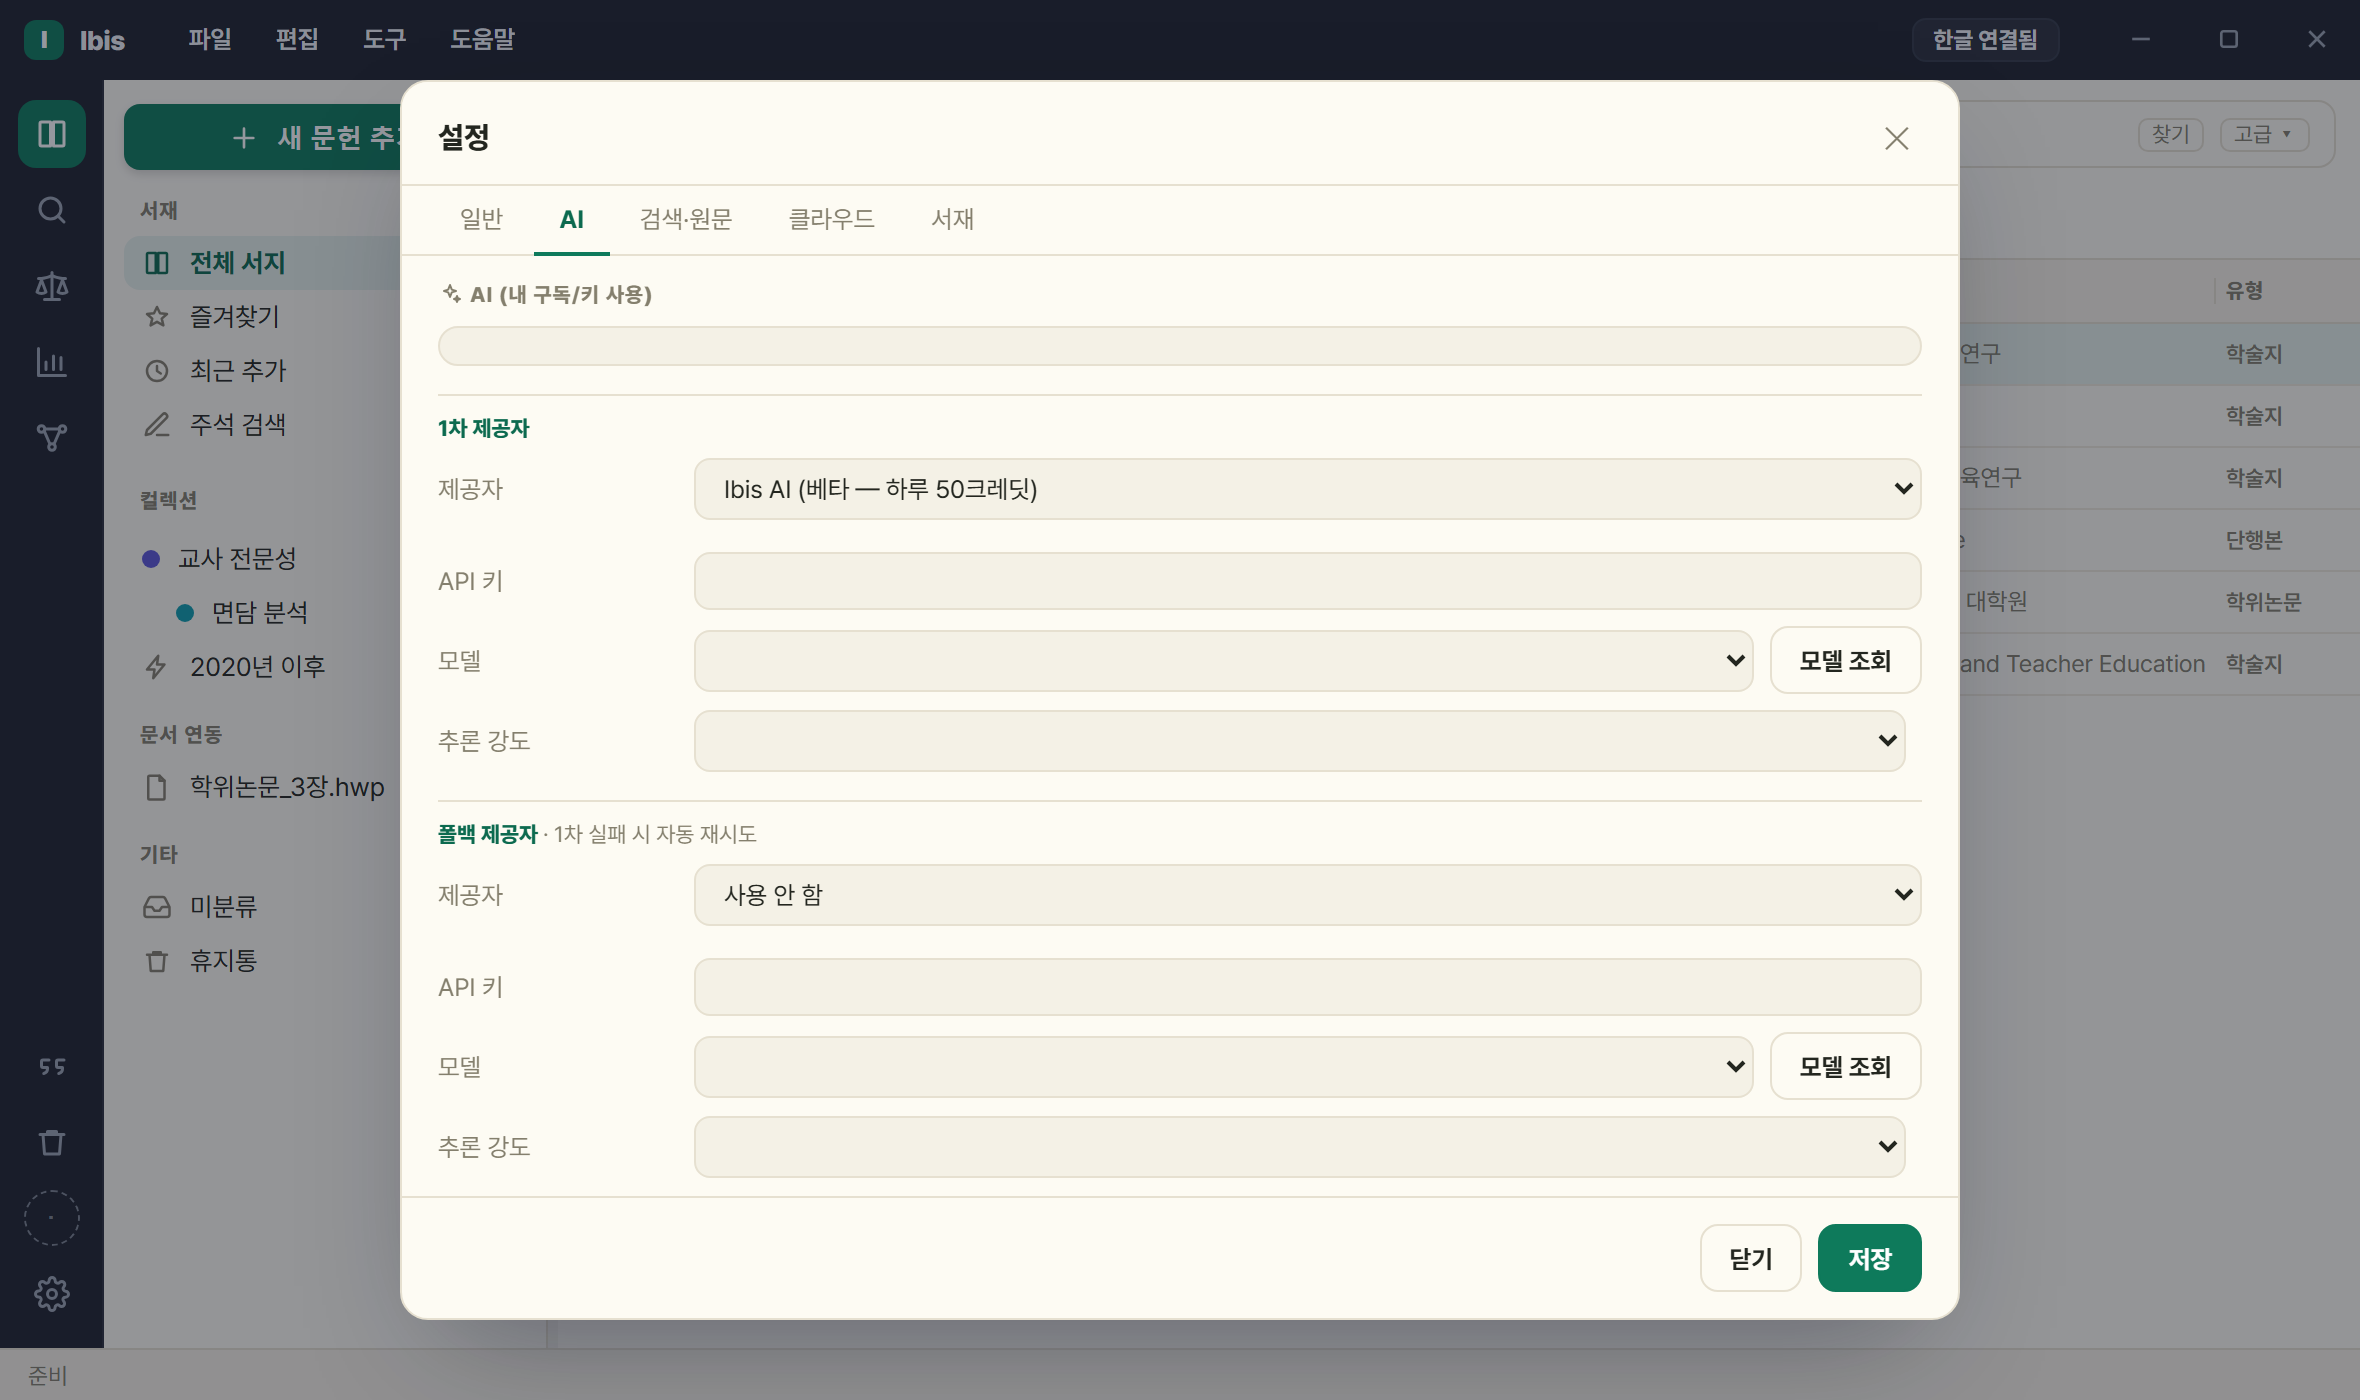
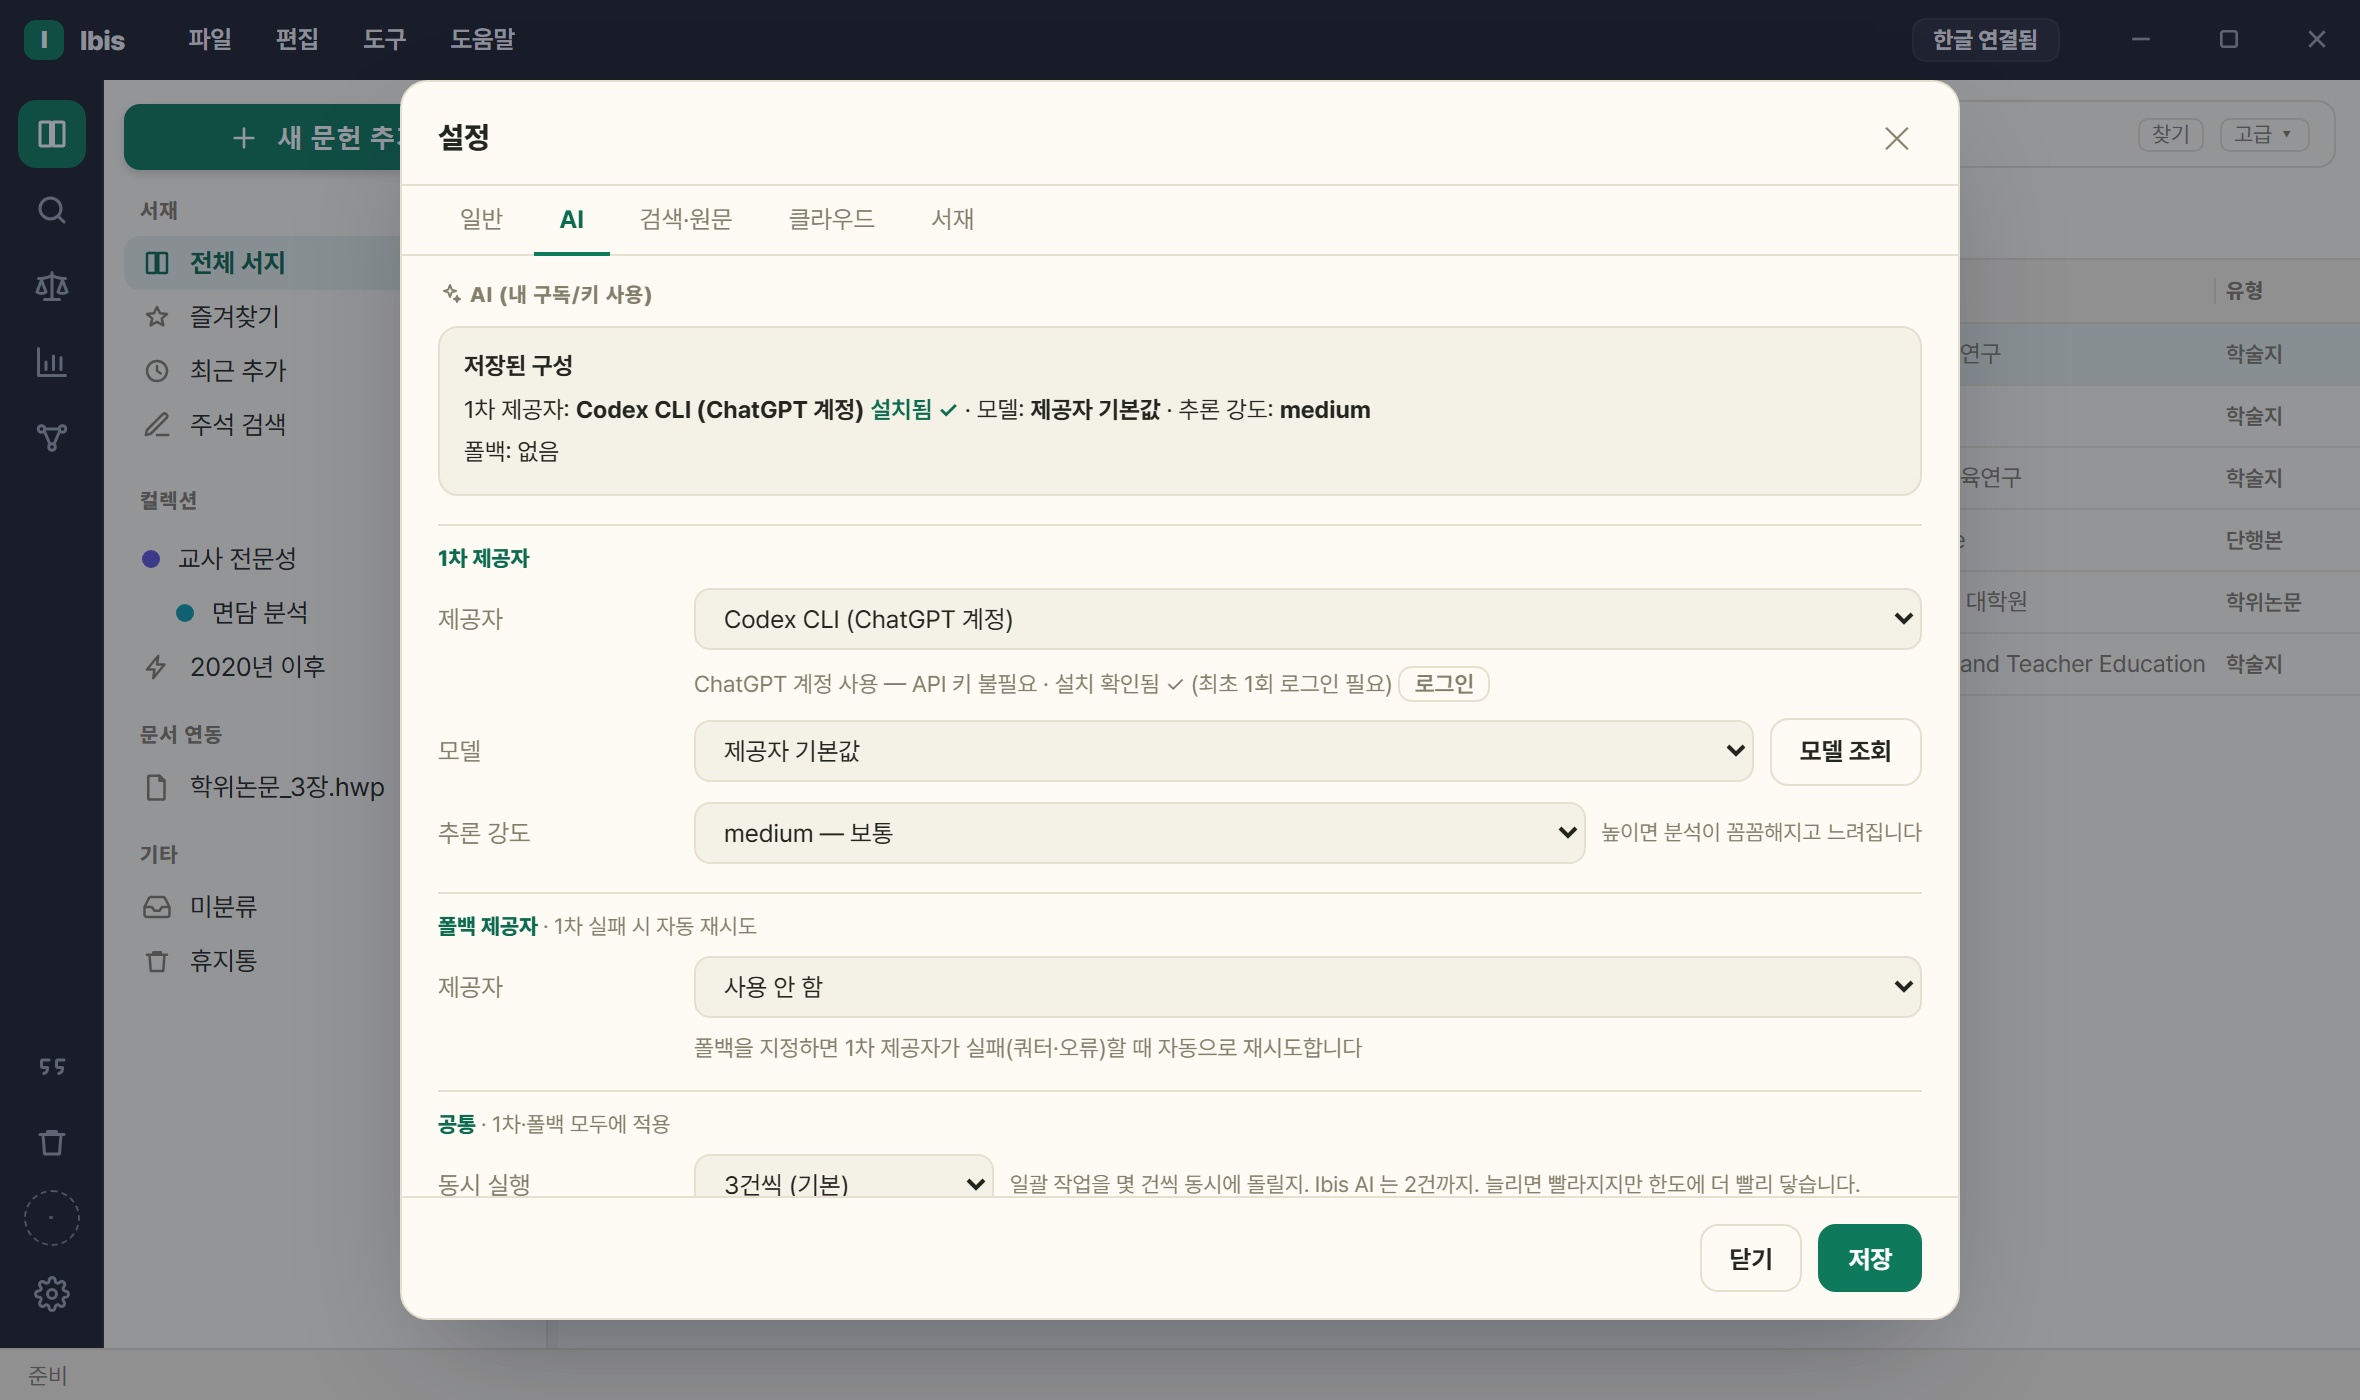
2026.9.20.0 Codex·로컬 AI와 업데이트 안내 반영

diff --git a/docs/FAQ.md b/docs/FAQ.md
@@ -1,6 +1,6 @@
 # Ibis FAQ
 
-한국 연구자를 위한 서지·인용 관리 앱 **Ibis** 자주 묻는 질문. 기준 버전 **2026.9.19**.
+한국 연구자를 위한 서지·인용 관리 앱 **Ibis** 자주 묻는 질문. 기준 버전 **2026.9.20.0** (2026-09-23).
 
 - **국내 학술 검색 → 원문 확보 → AI 분석 → 태그 그래프**까지 한 프로그램에서 합니다.
 - 한글(HWP)·Word 본문 인용 삽입(CWYW)도 그중 한 기능입니다.
@@ -33,7 +33,7 @@
 
 - **setup.exe** (권장) — 관리자 권한 불필요, 시작 메뉴·바탕화면 아이콘, 제어판에서 제거.
 - `win64.zip` 은 앱이 업데이트할 때 내려받는 파일입니다. 직접 받아 풀면 자동 업데이트·바로가기·제거가 되지 않습니다.
-- 이미 쓰고 있으면 **앱 안에서 자동 업데이트**되므로 따로 받지 않아도 됩니다.
+- 이미 쓰고 있으면 앱 안에서 업데이트할 수 있습니다. 단 **2026.9.18 또는 2026.9.19는 `파일 › 종료`로 앱을 완전히 끝낸 뒤 새 `setup.exe`를 실행하세요.** 창의 **×는 최소화이므로 종료가 아닙니다.**
 
 **Q. 지난 버전을 받고 싶은데 릴리스에 최신 하나만 보여요. (2026-09-15)**
 
@@ -68,10 +68,10 @@
 - 켜면(기본 꺼짐) 설치 후 첫 실행에서 AI 설정 화면이 먼저 열립니다. 켜지 않아도 나중에 ⚙설정에서 할 수 있습니다.
 - 인스톨러가 **AI CLI 를 대신 깔지는 않습니다** — 로그인이 브라우저 인증이라 무인 설치로 끝나지 않기 때문입니다.
 
-**Q. 버전이 `0.7.2` 다음에 `2026.7.1` 이던데 맞나요?**
+**Q. 버전 번호가 네 자리가 된 이유는 무엇인가요?**
 
-- 맞습니다. 2026-07 부터 **날짜 기반(CalVer `연.월.패치`)** 으로 바꿨습니다.
-- 버전에서 빌드 시점을 바로 알 수 있습니다. 인앱 업데이트는 그대로 동작합니다.
+- `2026.9.20.0`(2026-09-23)부터 **연.월.큰 변경.작은 수정**으로 구분합니다. 작은 수정은 `2026.9.20.1`, 다음 큰 변경은 `2026.9.21.0`처럼 올립니다.
+- 예전 세 자리 버전도 그대로 인식하므로 사용자가 번호를 바꿀 필요는 없습니다.
 
 **Q. Mac·리눅스에서도 되나요?**
 
@@ -484,6 +484,7 @@
 **Q. 내 서재 전체를 여러 PC 에서 맞출 수 있나요?**
 
 - 네 — `⚙설정 › 클라우드` › **[내 서재 동기화 (여러 PC)]** (베타). 같은 구글 계정으로 로그인한 내 다른 PC 와 **서재 전체**를 맞춥니다.
+- **동기화하는 모든 PC를 2026.9.20.0 이상으로 판올림하세요.** 구버전을 함께 쓰면 스마트 컬렉션·서재 설정이 누락될 수 있습니다. 이미 모든 사본에서 사라진 값은 복원하지 못합니다.
 - 컬렉션 공유와 달리 **개인 메모·즐겨찾기·초록도 함께** 갑니다(받는 쪽이 나 자신이므로). **남과는 나눌 수 없습니다** — 서버가 초대를 거절합니다.
 - 다른 PC 에서 이미 켰다면 **그것을 먼저 받아 합칩니다.** 한쪽에서 지운 문헌·컬렉션은 다른 PC 에서도 정리됩니다(문헌은 휴지통으로, 컬렉션이 없어져도 그 안의 문헌은 서재에 남습니다).
 - **PDF 원문 파일은 올라가지 않습니다.** 파일까지 맞추려면 서재 폴더를 클라우드 폴더에 두는 방식을 **함께** 쓰세요(권장 구성).
@@ -681,14 +682,21 @@
 
 ## AI 기능
 
+**Q. 로컬 AI는 어떻게 연결하나요?**
+
+- Ollama 또는 LM Studio에서 텍스트 생성 모델과 서버를 먼저 준비한 뒤 `⚙설정 › AI`의 1차 또는 폴백으로 **로컬 AI (Ollama·LM Studio)**를 고릅니다.
+- **로컬 서버 연결 → 연결 확인 → 모델 조회** 순서로 연결하고 모델을 반드시 지정하세요. 모델명을 직접 입력할 수도 있습니다. Ibis가 모델을 내려받거나 서버를 실행하지는 않습니다.
+- **본문 상한 (자)**는 기본 4,000자입니다. 모델의 문맥 길이를 바꾸는 설정은 아니며, 연결이 되더라도 답변과 쪽 근거는 원문과 확인해야 합니다.
+- 서버가 클라우드 모델을 쓰거나 외부 제공자를 폴백으로 지정하면 본문이 외부로 전송될 수 있습니다([개인정보 처리방침](PRIVACY.md#ai-제공자와-로컬-서버)).
+
 **Q. AI 를 쓰려면 따로 돈을 내야 하나요?**
 
-- 앱 자체에 AI 요금은 **없습니다.** 세 갈래 중 하나를 고르세요.
+- AI는 다음 방식 중 하나를 골라 씁니다.
 - **Ibis AI**(키·CLI 불필요): 구글 로그인만 하면 크레딧으로 씁니다. 시작하면 체험 크레딧 100(다 쓰면 채워지지 않습니다), [베타 무료 구독] 을 시작하면 하루 50크레딧이 매일 채워집니다(한국시간 오전 9시). 베타 기간에는 요금이 없고 결제 수단도 받지 않습니다. 정식 요금이 정해지면 구독자에게 먼저 알리고, 그때 계속할지 선택합니다.
-- **구독 CLI형**(키 불필요): `Claude CLI (구독)` · `Antigravity CLI (Google 구독)` — 설치 + 최초 1회 로그인.
+- **CLI형**(키 불필요): `Claude CLI (구독)` · `Antigravity CLI (Google 구독)` · **Codex CLI (ChatGPT 계정)** — 설치 + 최초 1회 로그인. Codex를 이용할 수 있는 ChatGPT 계정이 필요하며 설정에서 설치·로그인·상태 확인·업데이트를 진행합니다.
 - **API형**(본인 키): `Anthropic API 키` · `OpenAI API 키` · `Gemini API 키`.
-- ⚠ 목록에 보이는 `Codex CLI (향후 지원)` 는 **아직 고를 수 없습니다**(비활성).
-- 실행하면 그 크레딧·구독·키의 사용량이 소모됩니다.
+- **로컬 AI**: Ollama·LM Studio 등 사용자가 실행한 서버의 모델을 연결합니다. 해당 서버·모델의 이용 조건이 적용됩니다.
+- 외부 CLI·API는 해당 계정의 사용량 한도와 요금이 적용됩니다. 로컬 AI도 연결한 서버·모델의 이용 조건을 확인하세요.
 - AI 를 설정하지 않아도 나머지 기능은 그대로 됩니다.
 
 **Q. Ibis AI 크레딧은 얼마나 드나요? 모르고 다 써 버리지 않나요? (2026.9.2)**

diff --git a/README.md b/README.md
@@ -29,6 +29,10 @@
 [Releases](../../releases)에서 **`Ibis-<버전>-setup.exe`** 를 내려받아 실행합니다. 관리자 권한이 필요 없고,
 설치 뒤에는 앱 안에서 자동으로 업데이트됩니다.
 
+> **2026.9.18 또는 2026.9.19에서 판올림:** `파일 › 종료`로 앱을 완전히 끝낸 뒤 새 `setup.exe`를 실행하세요. 창의 **×는 최소화이므로 종료가 아닙니다.**
+
+2026.9.20.0(2026-09-23)부터 버전은 **연.월.큰 변경.작은 수정** 네 자리입니다. 예전 세 자리 버전도 그대로 인식합니다.
+
 > `Ibis-<버전>-win64.zip` 은 앱이 업데이트할 때 내려받는 파일입니다.
 > 직접 받아 풀면 자동 업데이트·바로가기·제거가 되지 않습니다.
 
@@ -80,7 +84,8 @@
 
 **연구 도우미**
 - **AI 논문 요약**: 첨부 PDF·초록을 읽어 요약·분류 태그·키워드를 자동 저장합니다. **서지 유형을 보고 무엇을 뽑을지 바꿉니다**(2026.9.11 — 실증 논문·저술·보고서·법령·판례·회의록 여섯 갈래).
-  키나 CLI 없이 Ibis AI 크레딧으로 쓰거나(구글 로그인만 필요 — 체험 100크레딧, 이후 [베타 무료 구독]은 하루 50크레딧, 요금과 결제 수단 등록 없음), 내 구독(Claude Code·Antigravity CLI)이나 내 API 키(Anthropic·OpenAI·Gemini)를 쓸 수 있습니다.
+  키나 CLI 없이 Ibis AI 크레딧으로 쓰거나(구글 로그인만 필요 — 체험 100크레딧, 이후 [베타 무료 구독]은 하루 50크레딧, 요금과 결제 수단 등록 없음), Claude Code·Antigravity·**Codex CLI(ChatGPT 계정)**, 내 API 키(Anthropic·OpenAI·Gemini) 또는 **로컬 AI(Ollama·LM Studio)**를 쓸 수 있습니다.
+  Codex는 이용 가능한 ChatGPT 계정으로 로그인하고, 로컬 AI는 모델 서버를 먼저 실행한 뒤 설정에서 연결합니다. 1차·폴백 제공자로 지정할 수 있습니다.
   크레딧은 글자 수 기준 종량제이며, 실행 전에 예상 크레딧을 보여 주고 동의를 받습니다.
   스캔본(이미지) PDF 도 읽습니다(Windows 내장 글자 인식).
   CLI 는 설정에서 설치 → 로그인 → 확인 3단계로 안내하며, 설치·로그인은 콘솔 창에서 진행됩니다.
@@ -106,6 +111,7 @@
 - 베타 한계 — 컬렉션 이름·색·정렬 순서는 전파되지 않습니다(참가자마다 달라지는 것을 막기 위해 제외했습니다)
 
 **내 서재 동기화 (여러 PC · 베타)**
+- **동기화하는 모든 PC를 2026.9.20.0 이상으로 판올림하세요.** 구버전을 함께 쓰면 스마트 컬렉션·서재 설정이 누락될 수 있습니다. 이미 모든 사본에서 사라진 값은 복원하지 못합니다.
 - 같은 구글 계정으로 로그인한 내 다른 PC 와 서재 전체를 동기화합니다(⚙설정 › 클라우드)
 - 문헌·컬렉션 구성은 물론 개인 메모·즐겨찾기·초록까지 갑니다. 받는 쪽이 본인이기 때문입니다. PDF 원문 파일은 올라가지 않습니다
 - 다른 PC 에서 이미 켰다면 **그것을 먼저 받아 합칩니다.** 한쪽에서 지운 문헌·컬렉션은 다른 PC 에서도 정리됩니다
@@ -139,7 +145,7 @@
 
 - **서재(서지·첨부)** — 새로 설치하면 `문서\Ibis` 에 생깁니다(2026.8.10 부터). **쓰고 계시던 분의 서재는 옮기지 않고** 예전 자리를 그대로 씁니다. 서재 위치·새로 만들기·열기·사본 저장(백업)은 **⚙설정 › 서재** 에서 합니다.
 - **API 키·AI 설정·테마·검색 색인** — 이 PC 전용으로 `%LOCALAPPDATA%\Ibis` 에 남고, 어떤 동기화에도 실리지 않습니다.
-- 기본 설정에서는 어떤 데이터도 외부로 전송되지 않습니다. 예외는 사용자가 직접 켜는 컬렉션 공유와 내 서재 동기화뿐이고, 그때도 PDF 원문·개인 메모·즐겨찾기는 올라가지 않습니다(위 해당 항목 참고).
+- 컬렉션 공유와 내 서재 동기화는 직접 켰을 때 해당 데이터를 전송하며, PDF 원문 파일은 전송하지 않습니다. AI를 실행하면 필요한 본문·질문·대화 이력이 선택한 제공자나 서버로 전달됩니다. 로컬 서버가 클라우드 모델을 쓰거나 외부 제공자를 폴백으로 지정하면 외부로 전송될 수 있습니다([개인정보 처리방침](docs/PRIVACY.md#ai-제공자와-로컬-서버)).
 - 서재 폴더를 OneDrive 등 동기화 폴더에 두어 여러 PC 에서 이어 쓸 수도 있습니다.
 - 문서 안에는 인용 필드와 문서 식별자만 들어가고, 서지 원본은 항상 내 서재가 기준입니다.
 - 처음 실행하면 선택적 온보딩 마법사가 서재 위치·무료 원문 조회용 이메일·AI 설정을 안내합니다(전부 건너뛸 수 있으며, 기존 사용자에게는 뜨지 않습니다).
